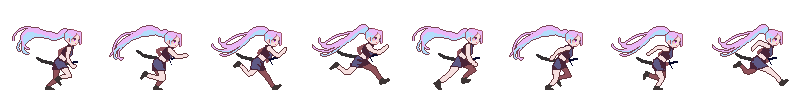
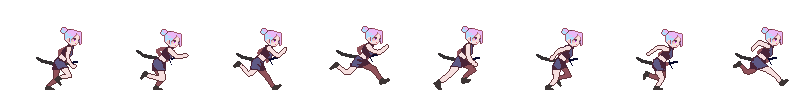
semi implemented chiyo jump animation

diff --git a/Eudaemon/core/src/edu/cornell/gdiac/game/ActionController.java b/Eudaemon/core/src/edu/cornell/gdiac/game/ActionController.java
@@ -133,6 +133,7 @@ public class ActionController {
         addAnimations(player.getMomoDashSpriteSheet(), 5, 1, "momoDash");
         addAnimations(player.getMomoJumpSpriteSheet(), 7, 1, "momoJump");
         addAnimations(player.getChiyoRunSpriteSheet(), 8, 1, "chiyoRun");
+        addAnimations(player.getChiyoJumpSpriteSheet(), 8, 1, "chiyoJump");
         addAnimations(player.getDashEffectSpriteSheet(), 5, 1, "dashEffect");
         addAnimations(player.getImpactEffectSpriteSheet(), 8, 1, "impactEffect");
     }
@@ -538,21 +539,26 @@ public class ActionController {
         // Animations if Player is Chiyo
         else {
             momoRunSound.stop();
-            if (player.getBodyVelocityX() != 0) {
+            if (player.getBodyVelocityX() != 0 && player.isGrounded()) {
                 currentAnimation = "momoRun";
-                if(player.isGrounded()){
-                    if(!soundDictionary.contains(chiyoRunSound)) {
-                        soundDictionary.add(chiyoRunSound);
-                        chiyoRunSound.loop();
-                    }
+                if(!soundDictionary.contains(chiyoRunSound)) {
+                    soundDictionary.add(chiyoRunSound);
+                    chiyoRunSound.loop();
                 }
-                else if(!player.isGrounded()){
-                    chiyoRunSound.stop();
-                    soundDictionary.remove(chiyoRunSound);
-                }
+
                 TextureRegion current = (TextureRegion) (animations.get("chiyoRun")).getKeyFrame(currentFrame); // Gets the current frame of the animation
                 tickFrameSwitch = 4;
                 maxFrame = 7;
+                player.setTexture(current);
+                player.setOyOffset(-25);
+                player.setSxMult(1.5f);
+                player.setSyMult(1.5f);
+            } else if(!player.isGrounded()){
+                chiyoRunSound.stop();
+                soundDictionary.remove(chiyoRunSound);
+                TextureRegion current = (TextureRegion) (animations.get("chiyoJump")).getKeyFrame(currentFrame); // Gets the current frame of the animation
+                tickFrameSwitch = 0;
+                maxFrame = 8;
                 player.setTexture(current);
                 player.setOyOffset(-25);
                 player.setSxMult(1.5f);

diff --git a/Eudaemon/core/src/edu/cornell/gdiac/game/models/Player.java b/Eudaemon/core/src/edu/cornell/gdiac/game/models/Player.java
@@ -1218,6 +1218,7 @@ public class Player extends CapsuleObstacle {
         this.momoRunSpriteSheet = new TextureRegion(assets.getEntry( "momo:run", Texture.class));
         this.momoJumpSpriteSheet = new TextureRegion(assets.getEntry( "momo:jump", Texture.class));
         this.chiyoRunSpriteSheet = new TextureRegion(assets.getEntry( "chiyo:run", Texture.class));
+        this.chiyoJumpSpriteSheet = new TextureRegion(assets.getEntry( "chiyo:jump", Texture.class));
         this.impactEffectSpriteSheet = new TextureRegion(assets.getEntry( "impactEffect", Texture.class));
         //Sound Effect
         this.playerDamageSound = Gdx.audio.newSound(Gdx.files.internal("audio/temp-player-damage.mp3"));
